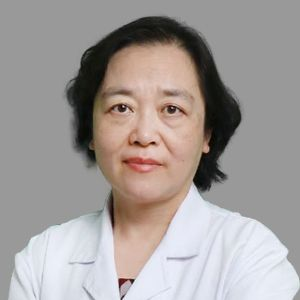
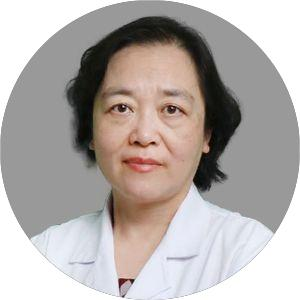
完成医生详细信息页面

diff --git a/src/views/DoctorInfo.vue b/src/views/DoctorInfo.vue
@@ -1,0 +1,162 @@
+<template>
+  <div class="doctorInfo-contain">
+    <div class="box">
+      <div class="bg"></div>
+      <div class="infoBox">
+        <div class="lbox">
+          <img src="../assets/img/doctor/doctor1.jpg" alt="">
+<!--          <div class="skill-text">-->
+<!--            <span style="font-size: 22px;line-height: 50px;color:#fff;margin-top: 50px">专业擅长</span><br>-->
+<!--            <span style="font-size: 14px;color:#fff">心脏病</span>-->
+<!--          </div>-->
+        </div>
+        <div class="rbox">
+          <div class="info">
+            <span class="title">个人资料</span>
+            <span class="back" @click="back"><img src="../assets/img/back-1.jpg" alt="">更多医生</span><br>
+            <span class="doctor-name">{{doctorInfo.name}}</span><br>
+            <span class="keshi">{{doctorInfo.keshi}}</span><br>
+            <span class="hospital">{{doctorInfo.hospital}}</span>
+          </div>
+          <el-divider></el-divider>
+          <img class="divider-icon" src="../assets/img/icon1-2.png" alt="">
+          <div class="profile">
+            <span style="font-size: 22px;line-height: 50px">个人简介：</span><br>
+            <span style="font-size: 14px;color:#707070">{{doctorInfo.profile}}</span>
+          </div>
+        </div>
+      </div>
+    </div>
+  </div>
+</template>
+
+<script>
+import doctorInfo from "../store/doctorInfo";
+
+export default {
+  name: "DoctorInfo.vue",
+  computed: {
+    doctorInfo() {
+      return doctorInfo
+    }
+  },
+  methods:{
+    back(){
+      this.$router.push('/doctor')
+    }
+  }
+}
+
+</script>
+
+<style scoped lang="less">
+.doctorInfo-contain{
+  width: 100%;
+  height: 600px;
+  position: relative;
+  top:100px;
+  .box{
+    width: 1350px;
+    height: 600px;
+    position: absolute;
+    left: 50%;
+    transform: translateX(-50%);
+    z-index: 2;
+    .bg{
+      width: 400px;
+      height: 600px;
+      position: absolute;
+      background: rgb(25,169,138);
+      //background: url("../assets/img/doctor/img.png");
+      z-index: 1;
+    }
+    .infoBox{
+      width: 100%;
+      height: 100%;
+      position: absolute;
+      z-index: 2;
+      .lbox{
+        float: left;
+        width:470px;
+        height: 100%;
+        position: relative;
+        z-index: 3;
+        img{
+          width:250px;
+          height: 250px;
+          border-radius:100%;
+          float: right;
+          position: relative;
+          top: 70px;
+        }
+        //.skill-text{
+        //  width:250px;
+        //  height:130px;
+        //  background: rgb(90,130,207);
+        //  position: absolute;
+        //  bottom:50px;
+        //  right:-10px;
+        //  border-radius: 10px;
+        //}
+      }
+      .rbox{
+        float: left;
+        width: 800px;
+        height: 100%;
+        z-index: 3;
+        margin-left: 50px;
+        .info{
+          .title{
+            line-height: 100px;
+            font-size:32px;
+            font-family: "Microsoft YaHei";
+          }
+          .back{
+            line-height: 100px;
+            font-size:16px;
+            font-family: "Microsoft YaHei";
+            float: right;
+            color:#707070;
+            img{
+              width: 32px;
+              height: 28px;
+              margin-right: 10px;
+              position: relative;
+              top: 6px;
+            }
+          }
+
+          .back:hover{
+            cursor: pointer;
+            color: rgb(25,169,138);
+          }
+
+          .doctor-name{
+            line-height: 50px;
+            font-size:24px;
+            font-family: "Microsoft YaHei";
+          }
+          .keshi{
+            font-size: 16px;
+            color: #707070;
+            line-height: 25px;
+          }
+          .hospital{
+            font-size: 16px;
+            color: #707070;
+          }
+        }
+
+        .divider-icon{
+          position: relative;
+          top: -35px;
+          right: -800px;
+        }
+        .profile{
+
+        }
+      }
+    }
+  }
+}
+</style>

diff --git a/src/views/DoctorSuggest.vue b/src/views/DoctorSuggest.vue
@@ -30,7 +30,7 @@
       </div>
 
       <div class="doctor-list">
-        <div class="doctor-item">
+        <div class="doctor-item" @click="viewDoctorInfo">
             <el-image
                 class="doctor-img"
                 :src="require('../assets/img/doctor/doctor1.jpg')"
@@ -51,7 +51,7 @@
             <p class="doctor-description">心脏病</p>
           </div>
         </div>
-        <div class="doctor-item">
+        <div class="doctor-item" @click="viewDoctorInfo">
           <el-image
               class="doctor-img"
               :src="require('../assets/img/doctor/doctor1.jpg')"
@@ -72,7 +72,7 @@
             <p class="doctor-description">心脏病</p>
           </div>
         </div>
-        <div class="doctor-item">
+        <div class="doctor-item" @click="viewDoctorInfo">
         <el-image
             class="doctor-img"
             :src="require('../assets/img/doctor/doctor1.jpg')"
@@ -93,7 +93,7 @@
           <p class="doctor-description">心脏病</p>
         </div>
       </div>
-        <div class="doctor-item">
+        <div class="doctor-item" @click="viewDoctorInfo">
           <el-image
               class="doctor-img"
               :src="require('../assets/img/doctor/doctor1.jpg')"
@@ -114,7 +114,7 @@
             <p class="doctor-description">心脏病</p>
           </div>
         </div>
-        <div class="doctor-item">
+        <div class="doctor-item" @click="viewDoctorInfo">
         <el-image
             class="doctor-img"
             :src="require('../assets/img/doctor/doctor1.jpg')"
@@ -135,7 +135,7 @@
           <p class="doctor-description">心脏病</p>
         </div>
       </div>
-        <div class="doctor-item">
+        <div class="doctor-item" @click="viewDoctorInfo">
         <el-image
             class="doctor-img"
             :src="require('../assets/img/doctor/doctor1.jpg')"
@@ -192,6 +192,11 @@ export default {
       ]
     }
   },
+  methods:{
+    viewDoctorInfo(){
+      this.$router.push('/doctorInfo')
+    }
+  }
 }
 </script>
 
@@ -265,7 +270,6 @@ export default {
         .doctor-img{
           width: 150px;
           height: 150px;
-
         }
         .doctor-name{
 

diff --git a/src/router/index.js b/src/router/index.js
@@ -25,7 +25,8 @@ const routes = [
             {path:'/hospital', component:()=>import('../views/HospitalSuggest.vue'),},
             {path:'/doctor', component:()=>import('../views/DoctorSuggest.vue'),},
             {path:'/home', component:()=>import('../views/PublicPage.vue'),},
-            {path: '/statistics',component:()=>import('../views/Statistics.vue'),}
+            {path: '/statistics',component:()=>import('../views/Statistics.vue'),},
+            {path:'/doctorInfo', component:()=>import('../views/DoctorInfo.vue'),},
     ]
     },
     {

diff --git a/src/store/doctorInfo.js b/src/store/doctorInfo.js
@@ -1,0 +1,6 @@
+export default {
+    name:'孙小雯 ',
+    keshi:'肿瘤放射治疗科',
+    hospital:'四川大学华西医院',
+    profile:'2014年本科毕业于湘雅医学院临床医学系，保送至四川大学华西临床医学院肿瘤学硕博连读，期间担任住院医师。2019年毕业后在肿瘤中心工作至今，发表论文数篇。',
+}

diff --git a/src/store/index.js b/src/store/index.js
@@ -1,11 +1,13 @@
 import Vue from "vue";
 import Vuex from 'vuex'
 import tab from './tab'
+import doctorInfo from './doctorInfo'
 Vue.use(Vuex)
 
 //创建vuex实例
 export default new Vuex.Store({
     modules:{
         tab,
+        doctorInfo,
     }
 })
